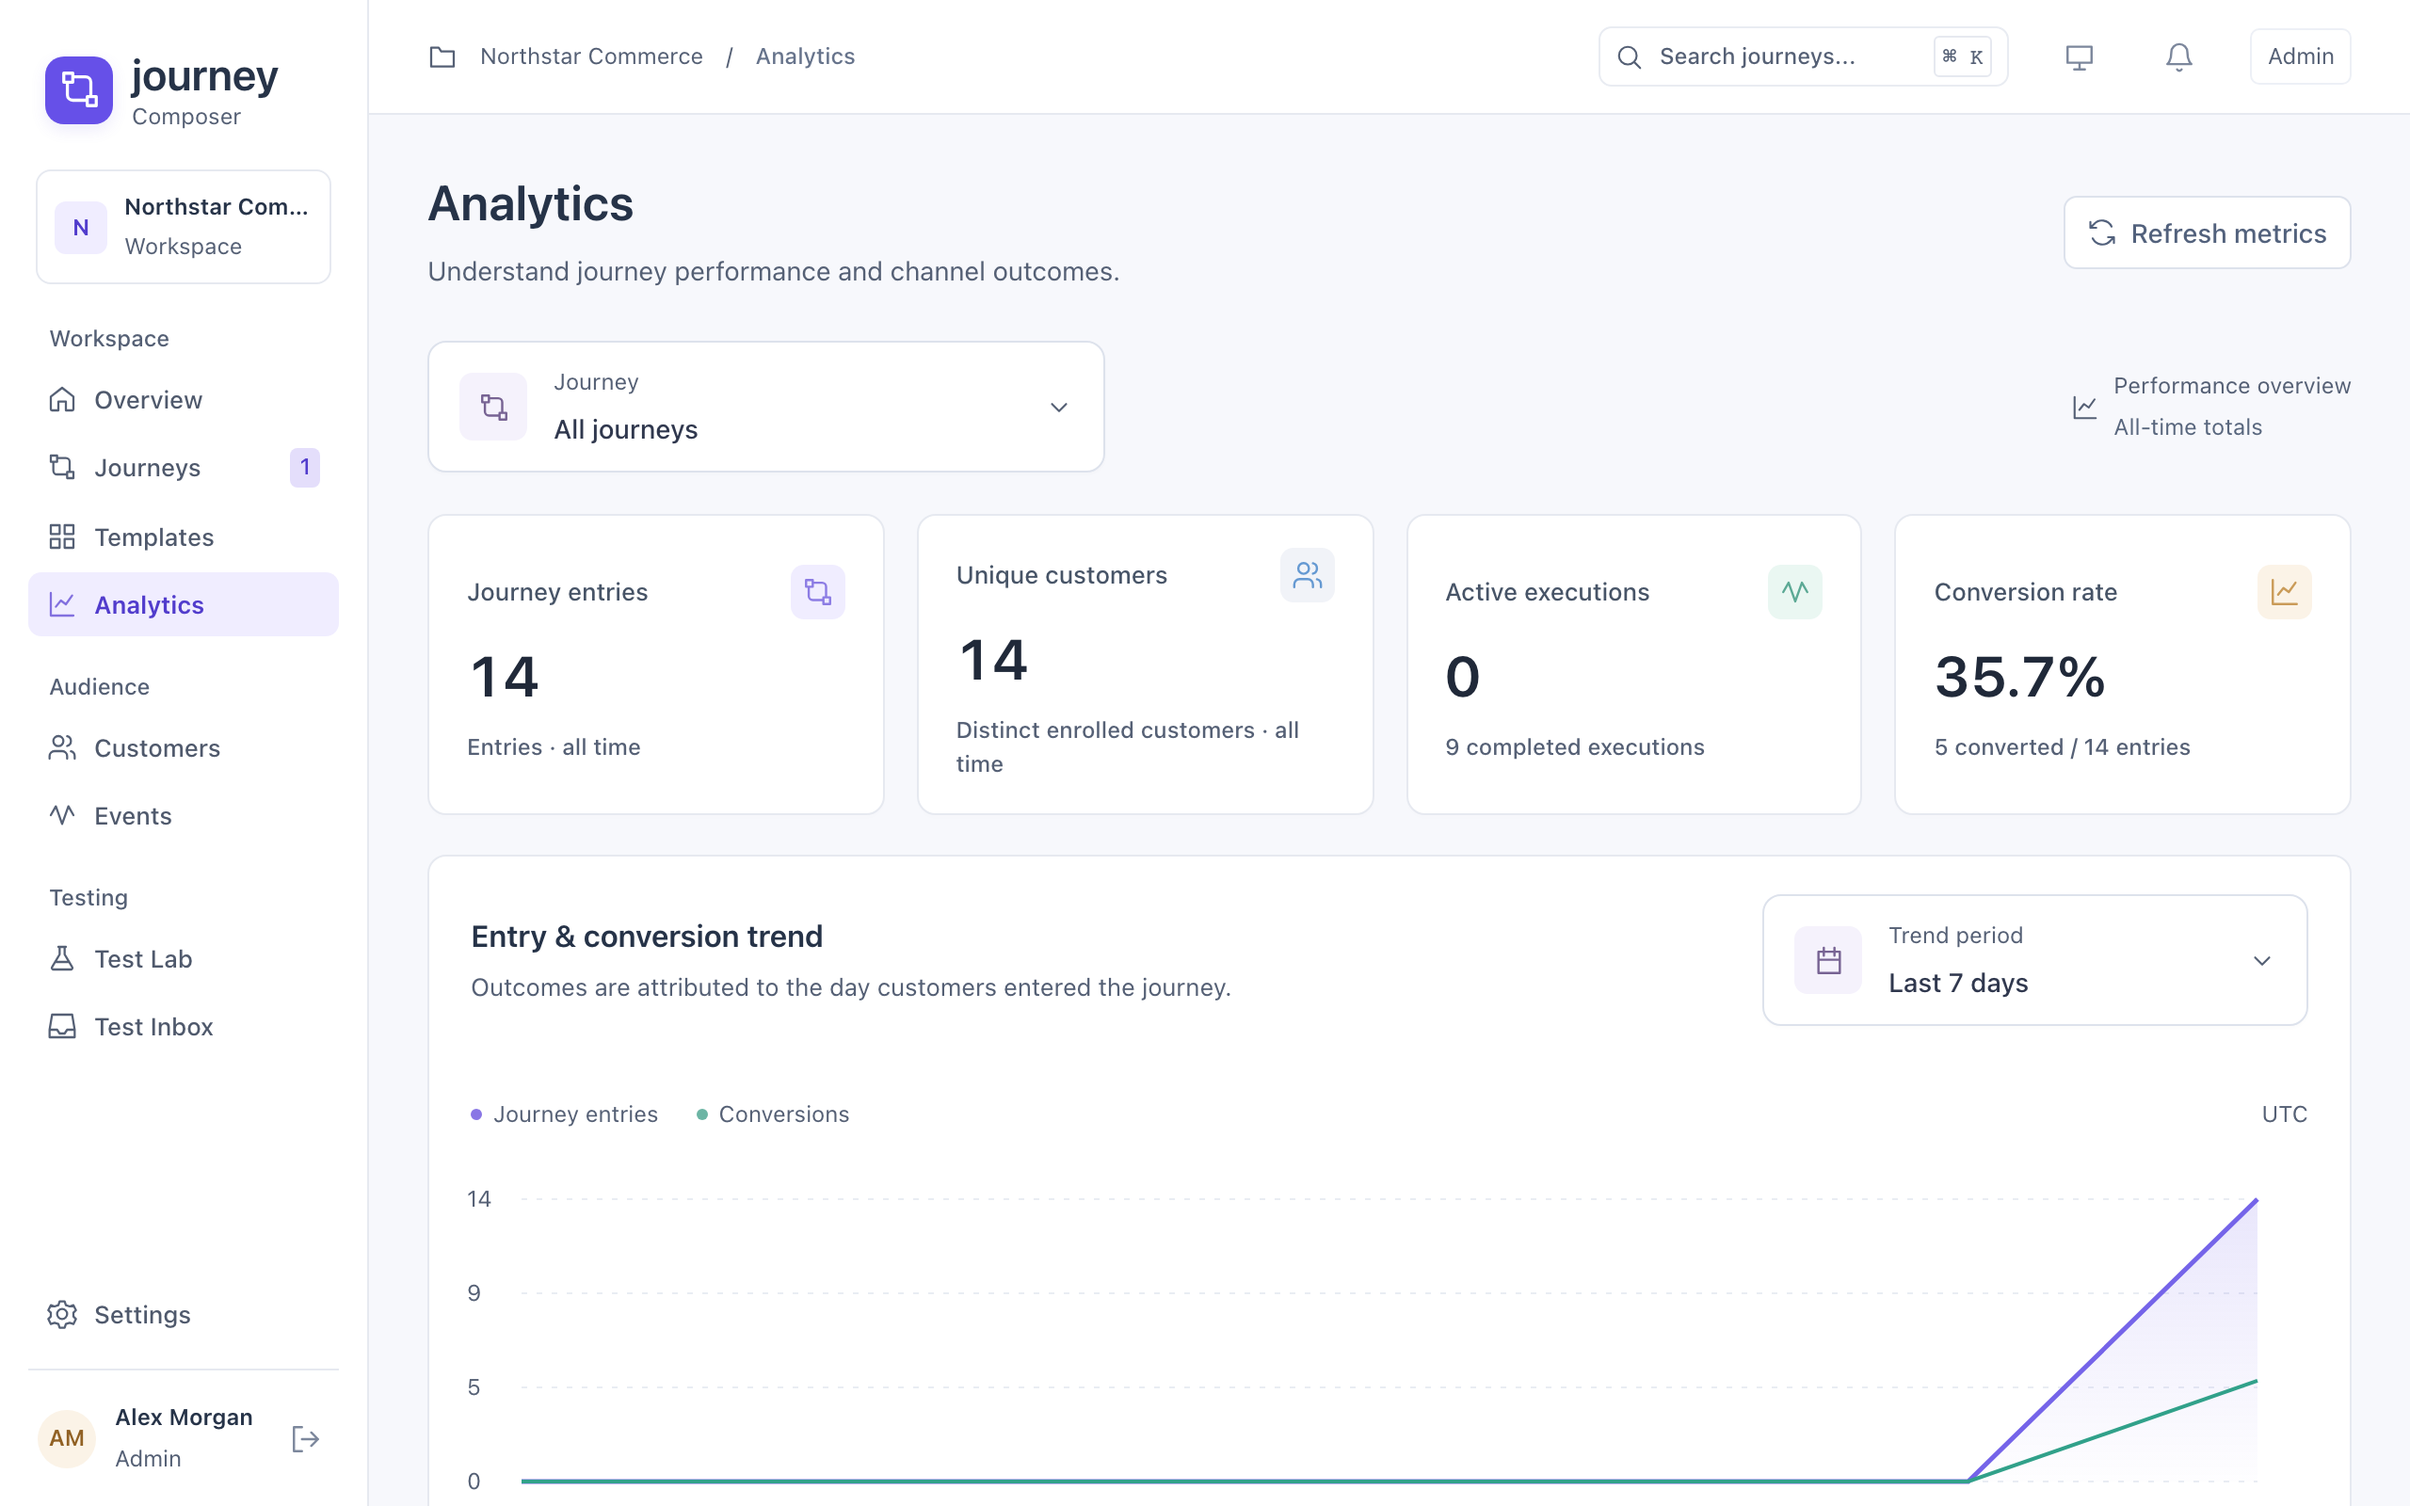
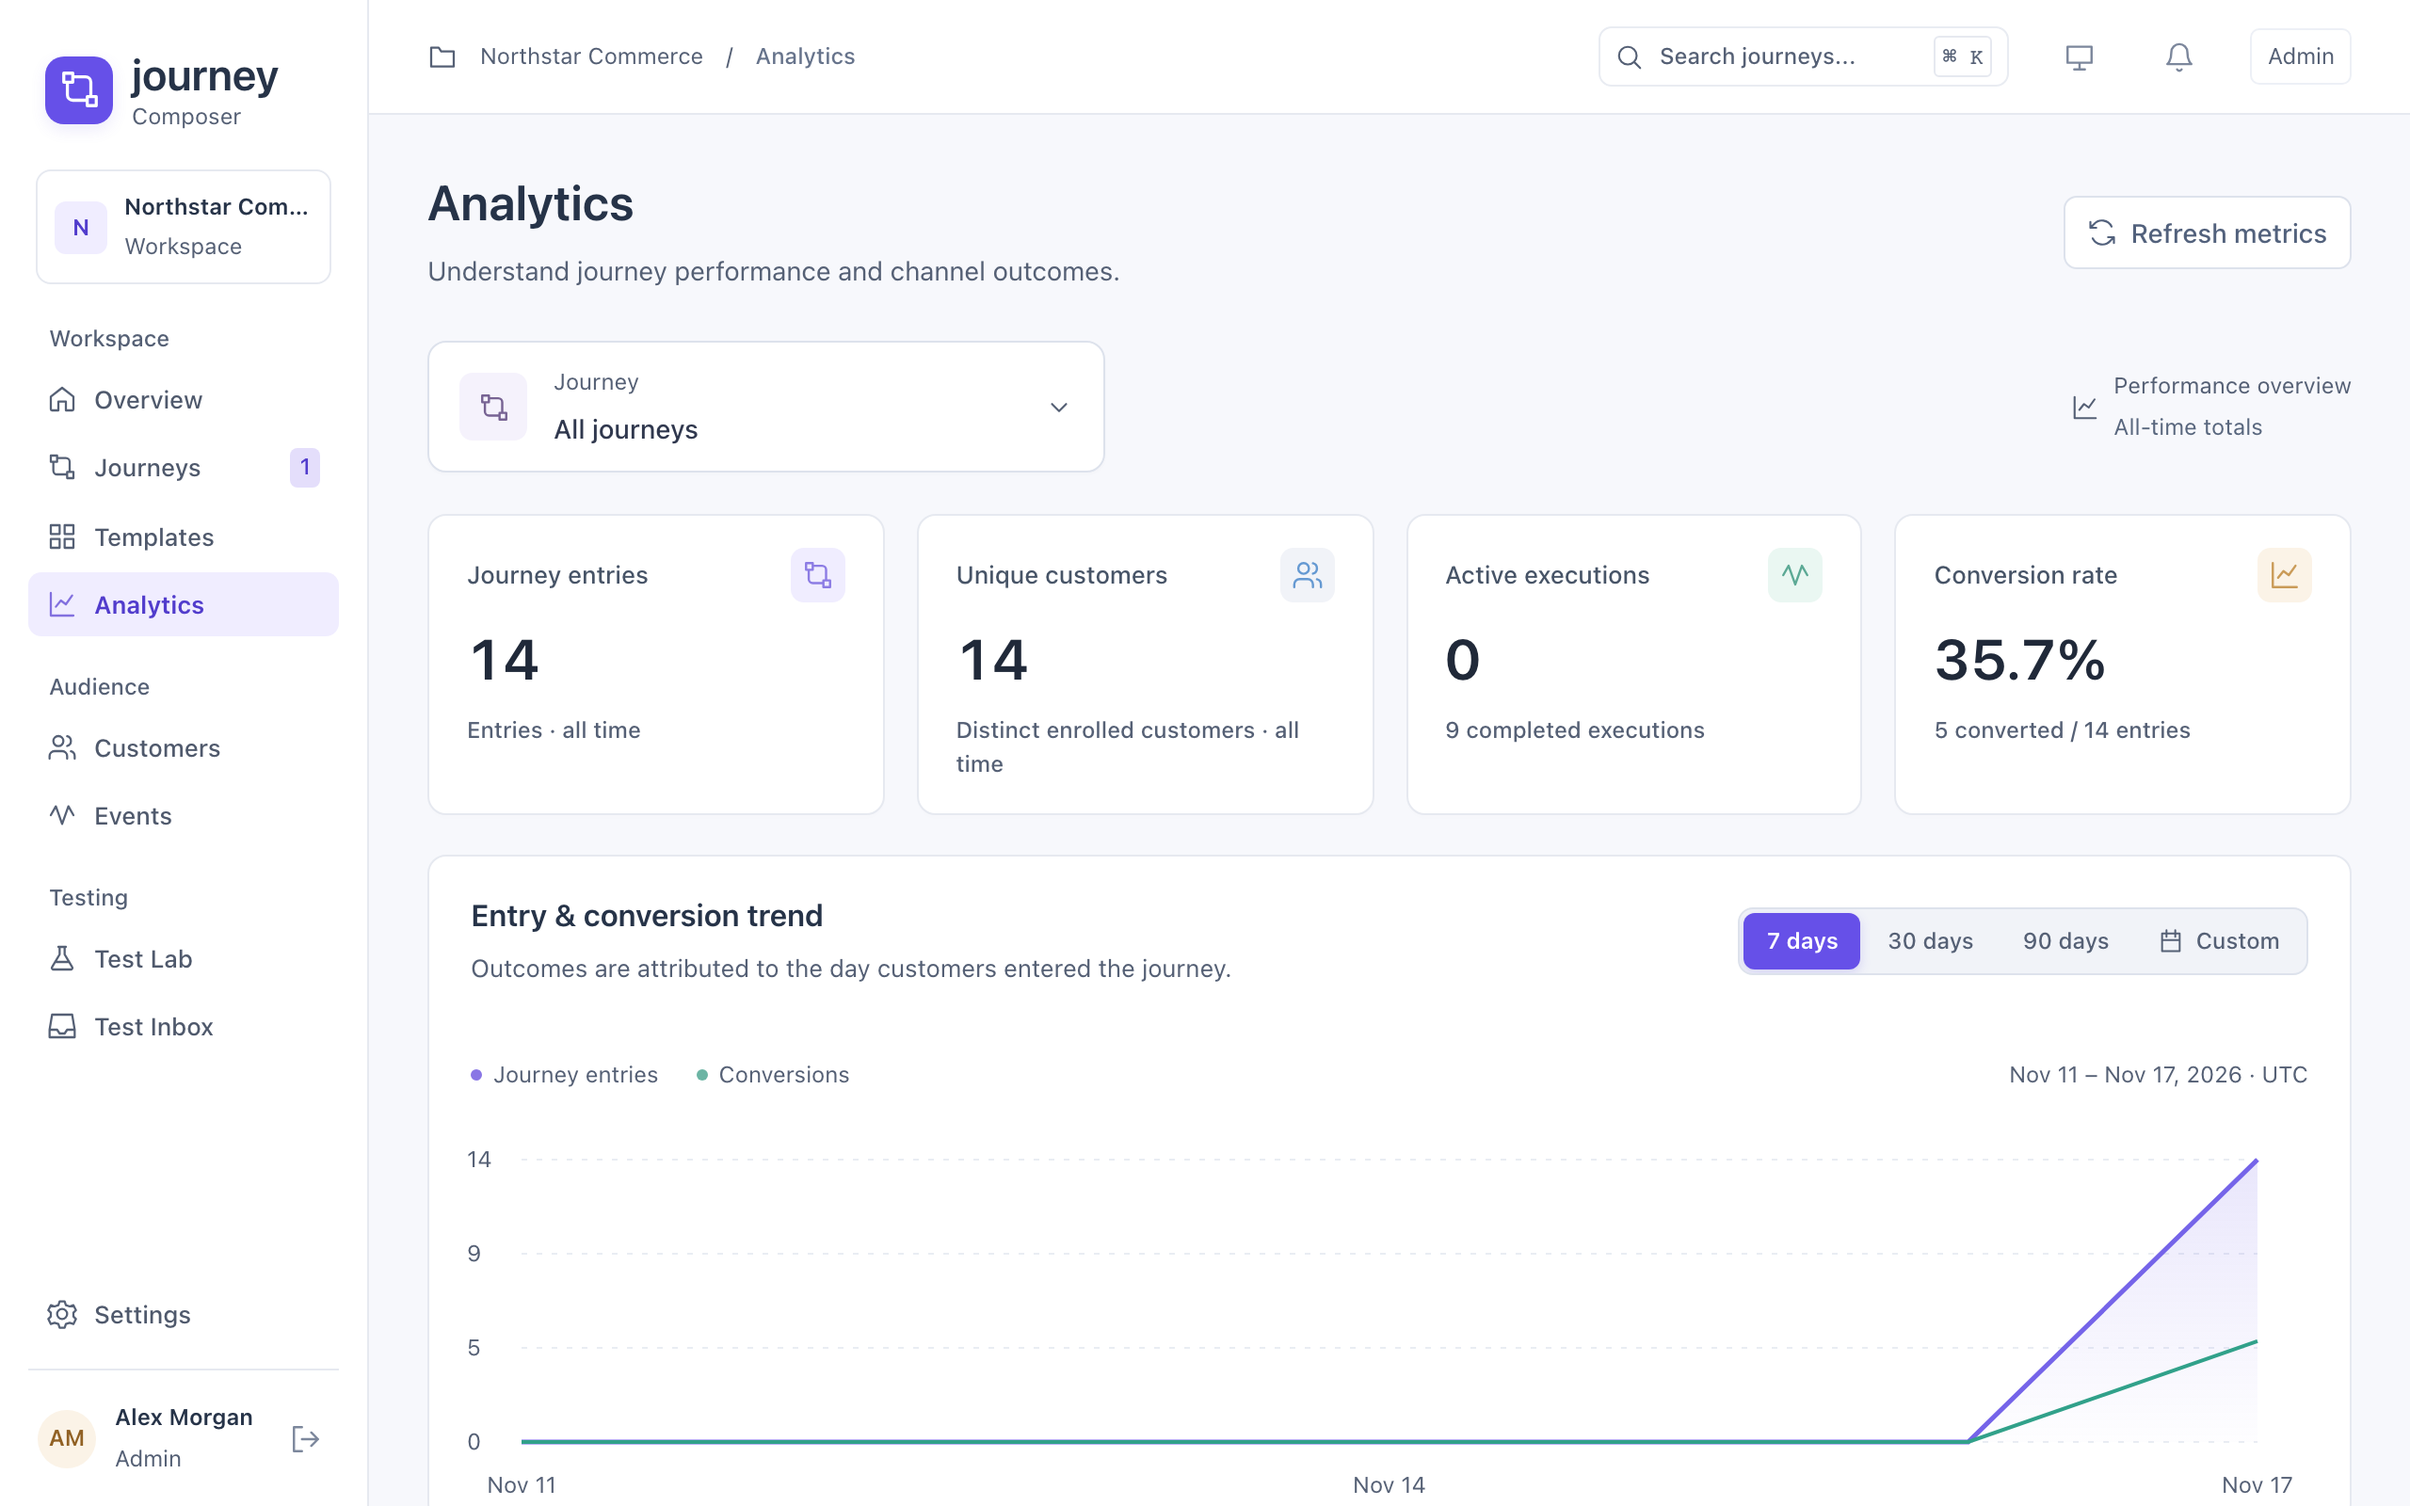
docs: recapture product screenshots with the push channel
Adds a Test Inbox push preview, refreshes the 14 operational captures from the
current Northstar demo and updates the capture script for the menu, trend period
and three-message inbox.

diff --git a/README.md b/README.md
@@ -52,19 +52,21 @@ The proposal is drawn as a diagram, with each alternative path. Request a change
 
 Every step is editable: triggers, waits for a time or an event, conditions, multi-way branches, A/B splits, email, SMS, webhooks, profile updates and exits. Changes save automatically and can be undone.
 
-![Builder: the journey on the canvas with the purchase wait selected and its event, timeout and connections in the side panel](docs/images/journey-builder.png)
+![Builder: the journey on the canvas with the purchase wait selected, its push follow-up on the timeout path, and the wait's event, timeout and connections in the side panel](docs/images/journey-builder.png)
 
 ### 4. Run days in seconds
 
 The Test Lab runs saved scenarios on a virtual clock: a purchase before the first reminder, an opted-out customer, a purchase of a different cart. Each shows the path taken and whether its assertions passed.
 
-![Test Lab: the saved Email and SMS, no purchase scenario on a virtual clock, passed, with its assertions and timeline](docs/images/test-lab.png)
+![Test Lab: the saved Email, push and SMS, no purchase scenario on a virtual clock, passed, with its assertions and timeline](docs/images/test-lab.png)
 
 ### 5. See what the customer gets
 
 The test inbox shows each message a scenario produced, personalized for its customer, with its payload, execution trace, consent decision and every attempt.
 
 ![Test inbox: the cart reminder email for Alex Morgan with the Everyday Carry Tote, its price and the button back to the cart](docs/images/test-inbox-email.png)
+
+![Test inbox: the push notification for Alex Morgan's device on a phone banner preview, with its title and body](docs/images/test-inbox-push.png)
 
 ![Test inbox: the follow-up SMS with the COMEBACK10 code, its segment count and the personalization values](docs/images/test-inbox-sms.png)
 

diff --git a/docs/images/README.md b/docs/images/README.md
@@ -1,6 +1,6 @@
 # Product gallery
 
-Refreshed November 16, 2026. Real application captures at a 1280 × 800 CSS viewport and 2× display scale (**2560 × 1600 PNGs**). The single-journey list is shorter, and the email preview and publish review are taller so they show whole. One clean Northstar workspace, one Abandoned Cart Recovery journey and 14 fictional customers. Live email uses local Mailpit, SMS uses the mock provider and Inbox previews use isolated simulations. No historical activity or open/click rates are invented.
+Refreshed November 17, 2026. Real application captures at a 1280 × 800 CSS viewport and 2× display scale (**2560 × 1600 PNGs**). The single-journey list is shorter, and the email preview and publish review are taller so they show whole. One clean Northstar workspace, one Abandoned Cart Recovery journey and 14 fictional customers. Live email uses local Mailpit, push and SMS use the mock providers and Inbox previews use isolated simulations. No historical activity or open/click rates are invented.
 
 [Run the demo or reproduce these captures](../SHOWCASE.md) · [Capture manifest](manifest.json) · [Project README](../../README.md)
 
@@ -49,6 +49,12 @@ Virtual time, saved recovery scenarios, assertions and execution history.
 Personalized email from an isolated recovery simulation.
 
 ![Email preview in Test Inbox](test-inbox-email.png)
+
+## Push preview
+
+The push follow-up as a banner on the customer's phone, with its device token and delivery tabs.
+
+![Push preview in Test Inbox](test-inbox-push.png)
 
 ## SMS preview
 

diff --git a/docs/IMPLEMENTATION.md b/docs/IMPLEMENTATION.md
@@ -1284,3 +1284,13 @@ applied it to Draft; no publication or delivery occurred. The operational demo
 remains separate. The capture script has an explicit paid opt-in and observes a
 cloned stream without replacing the provider response. Earlier failed generation
 and capture-tool failures are disclosed in the [capture report](reports/live-creation-capture-2026-11-13.md).
+
+### Product screenshots with push — 2026-11-17
+
+`npm run screenshots:product` recaptured the 14 operational views at 2560 × 1600
+from the local Northstar demo, with the push step and mock push provider. The
+capture script now selects the overflow menu item by its `menuitem` role, uses the
+segmented trend period control, expects three Test Inbox messages and adds
+`test-inbox-push.png`. The customer profile now shows a push consent chip next to
+email and SMS. Live entries stayed the same before and after capture. The creation
+gallery was not recaptured.
